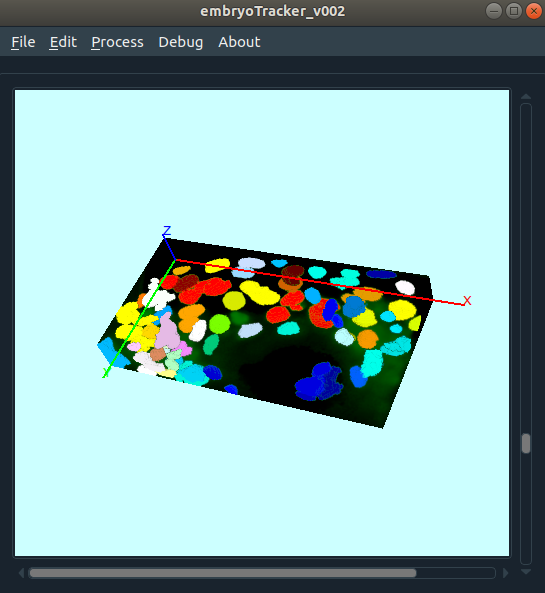
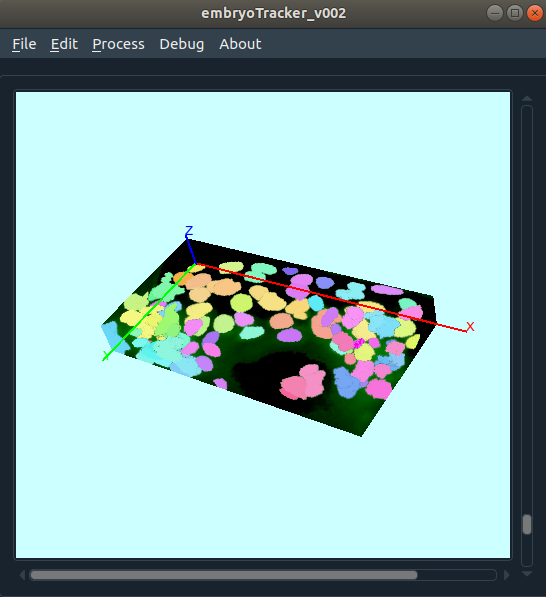
colormap change

diff --git a/cellsegmentation/cellsegment_main.h b/cellsegmentation/cellsegment_main.h
@@ -17,6 +17,7 @@ public:
         //if(time_points_processed) delete time_points_processed;
     };
     void processSingleFrameAndReturn(RayCastCanvas *glWidget);
+    //void processAllFramesAndReturn(RayCastCanvas *glWidget);
     void cellSegmentSingleFrame(cv::Mat *data_grayim3d, std::size_t curr_frame);
     void regionWiseAnalysis4d(cv::Mat *data_grayim3d, cv::Mat *dataVolFloat, cv::Mat * volStblizedFloat,
                               cv::Mat *idMapIn /*int*/, int seed_num, int frame, bool roundOne);

diff --git a/mainwindow.cpp b/mainwindow.cpp
@@ -224,7 +224,13 @@ void MainWindow::debugAlgorithm()
     algorithmDebug = true;
     this->data4test->debugMode = true;
     this->importImageSeries();
-    this->sendData4Segment();
+    //// send data to do segmentation on all frames
+    for(int i = 0; i < glWidget_raycast->bufSize[4]; i++){
+        glWidget_raycast->setVolumeTimePoint(i);
+        this->sendData4Segment();
+    }
+    //// send segmentation results for cell linking
+
 }
 void MainWindow::sendData4Segment()
 {

diff --git a/cellsegmentation/img_basic_proc.cpp b/cellsegmentation/img_basic_proc.cpp
@@ -2505,7 +2505,6 @@ void colorMapGen(Mat *src, Mat3b &colormap, String colorType){
         //Mat3b colormap;
         cmap3.convertTo(colormap, CV_8U, 255.0);
     }
-
 }
 /**
  * @brief label2rgb3d
